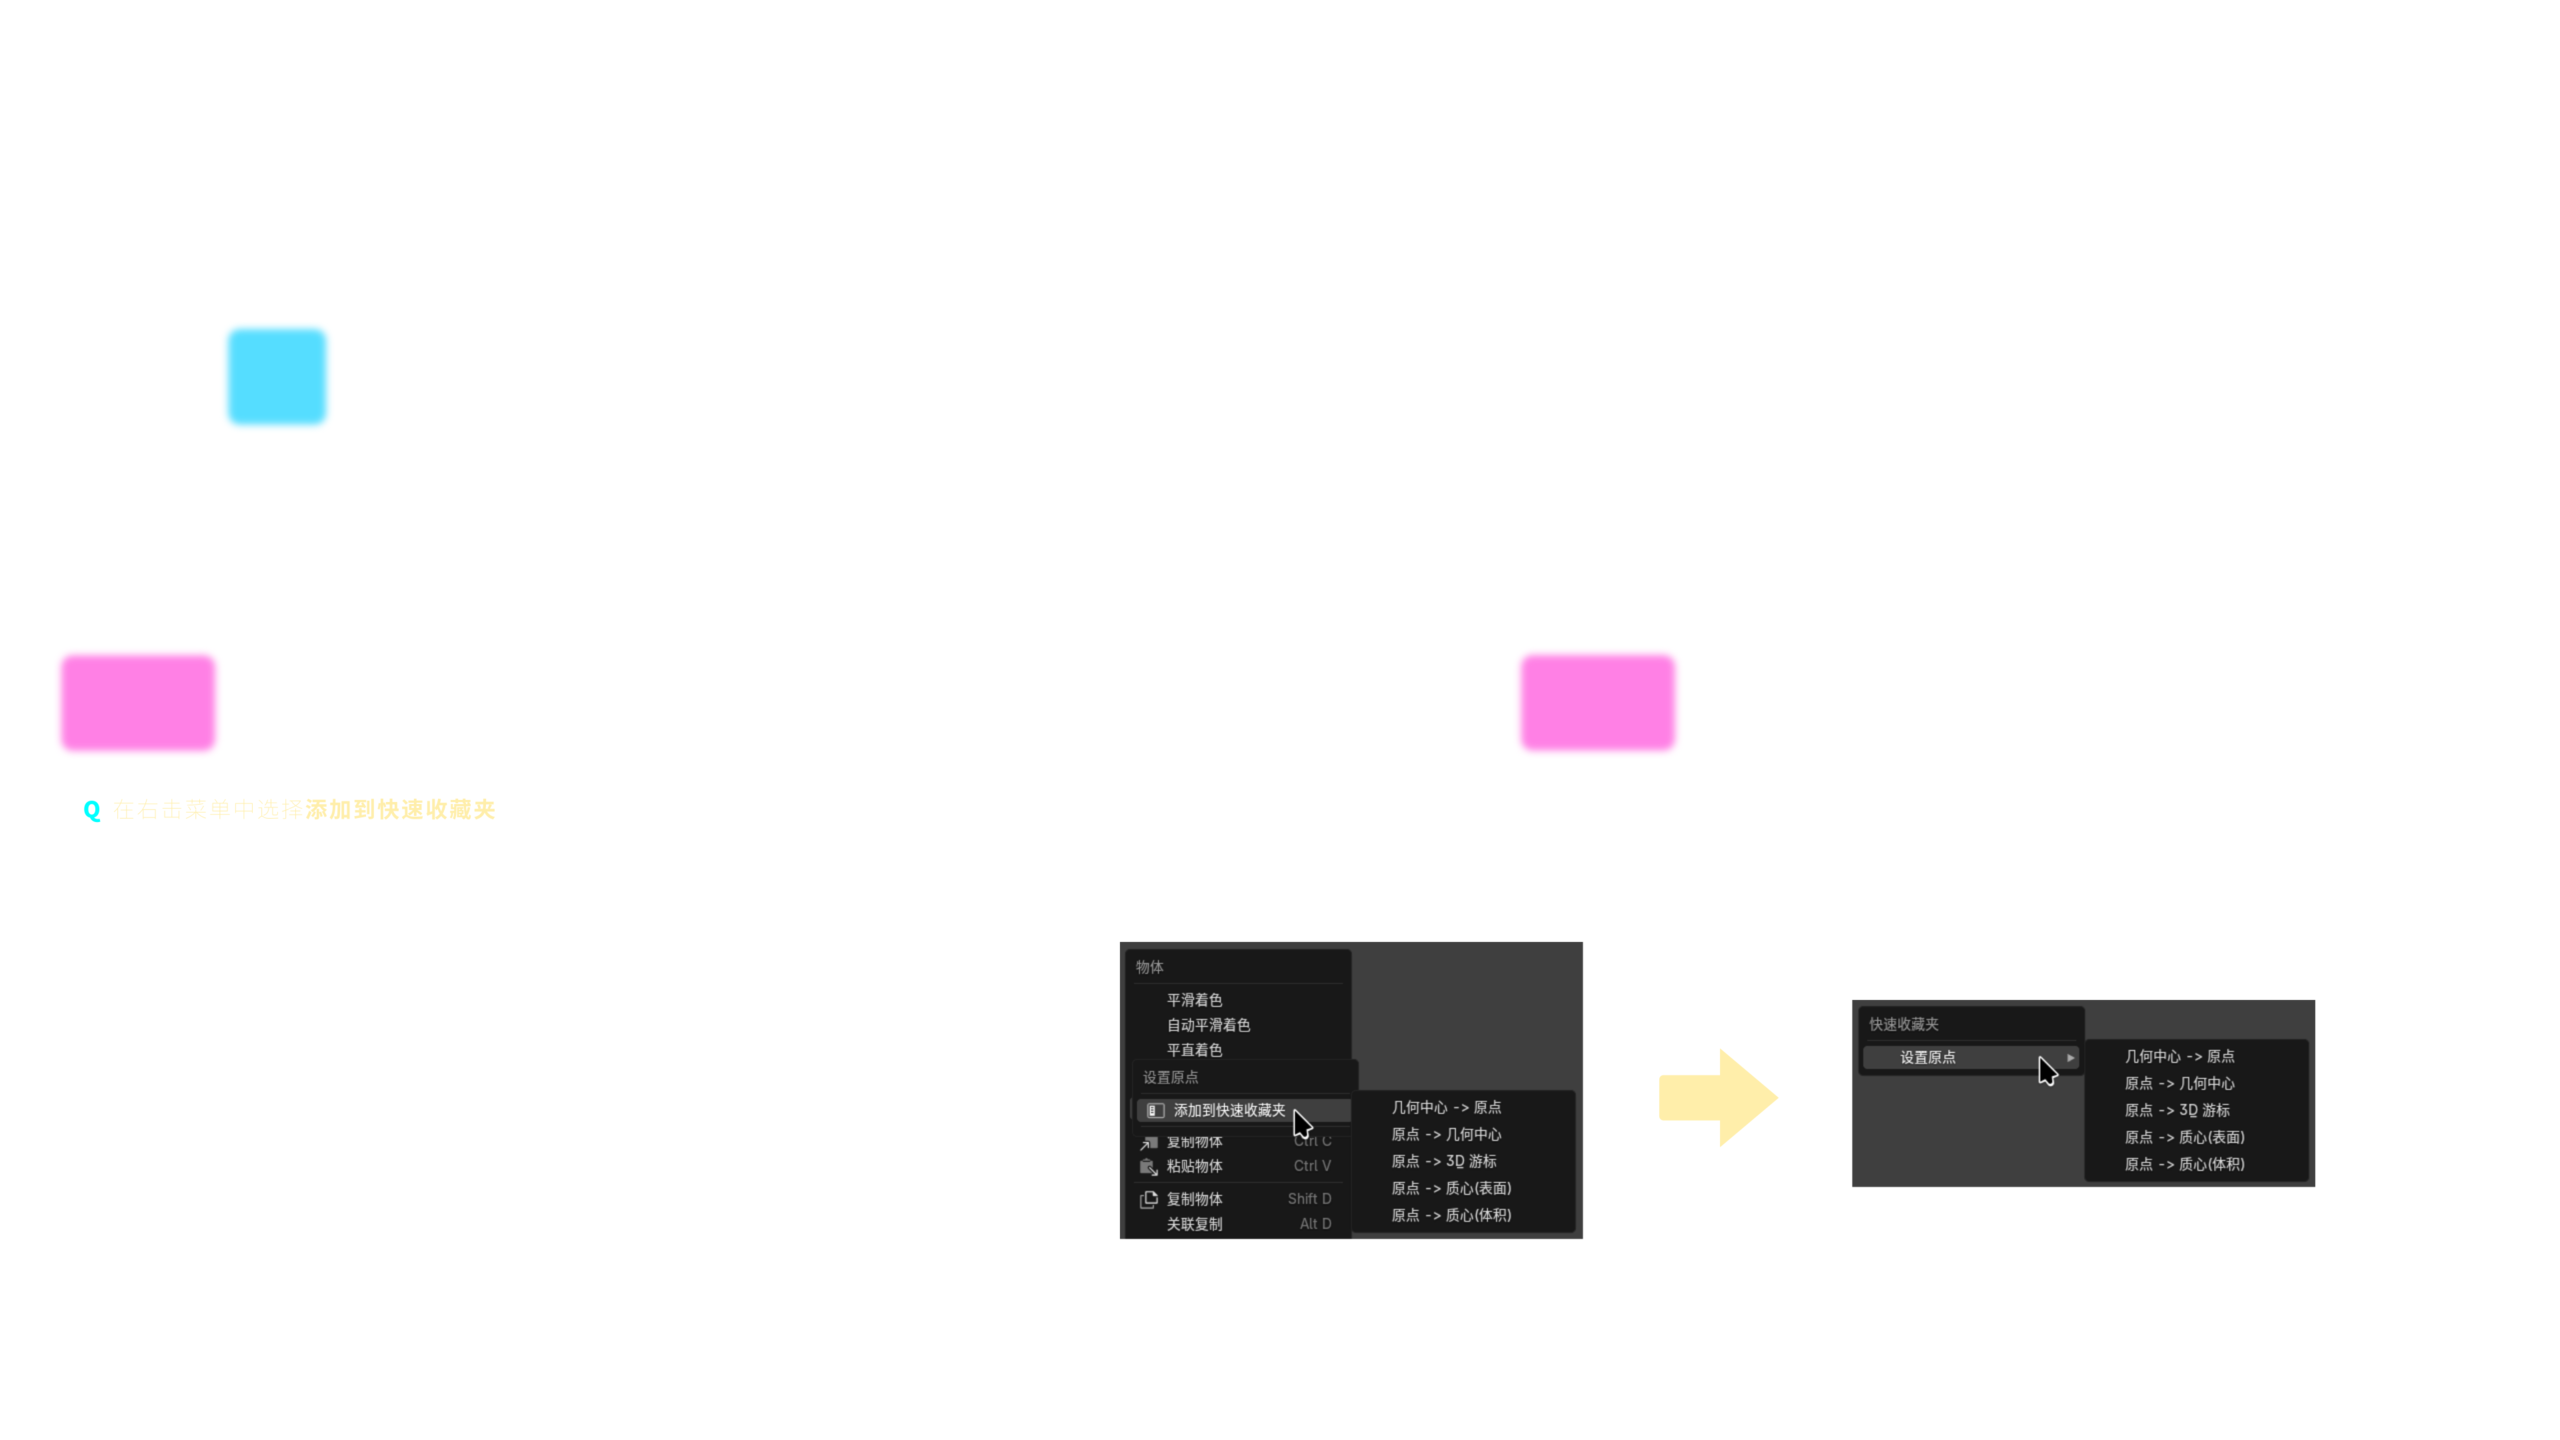
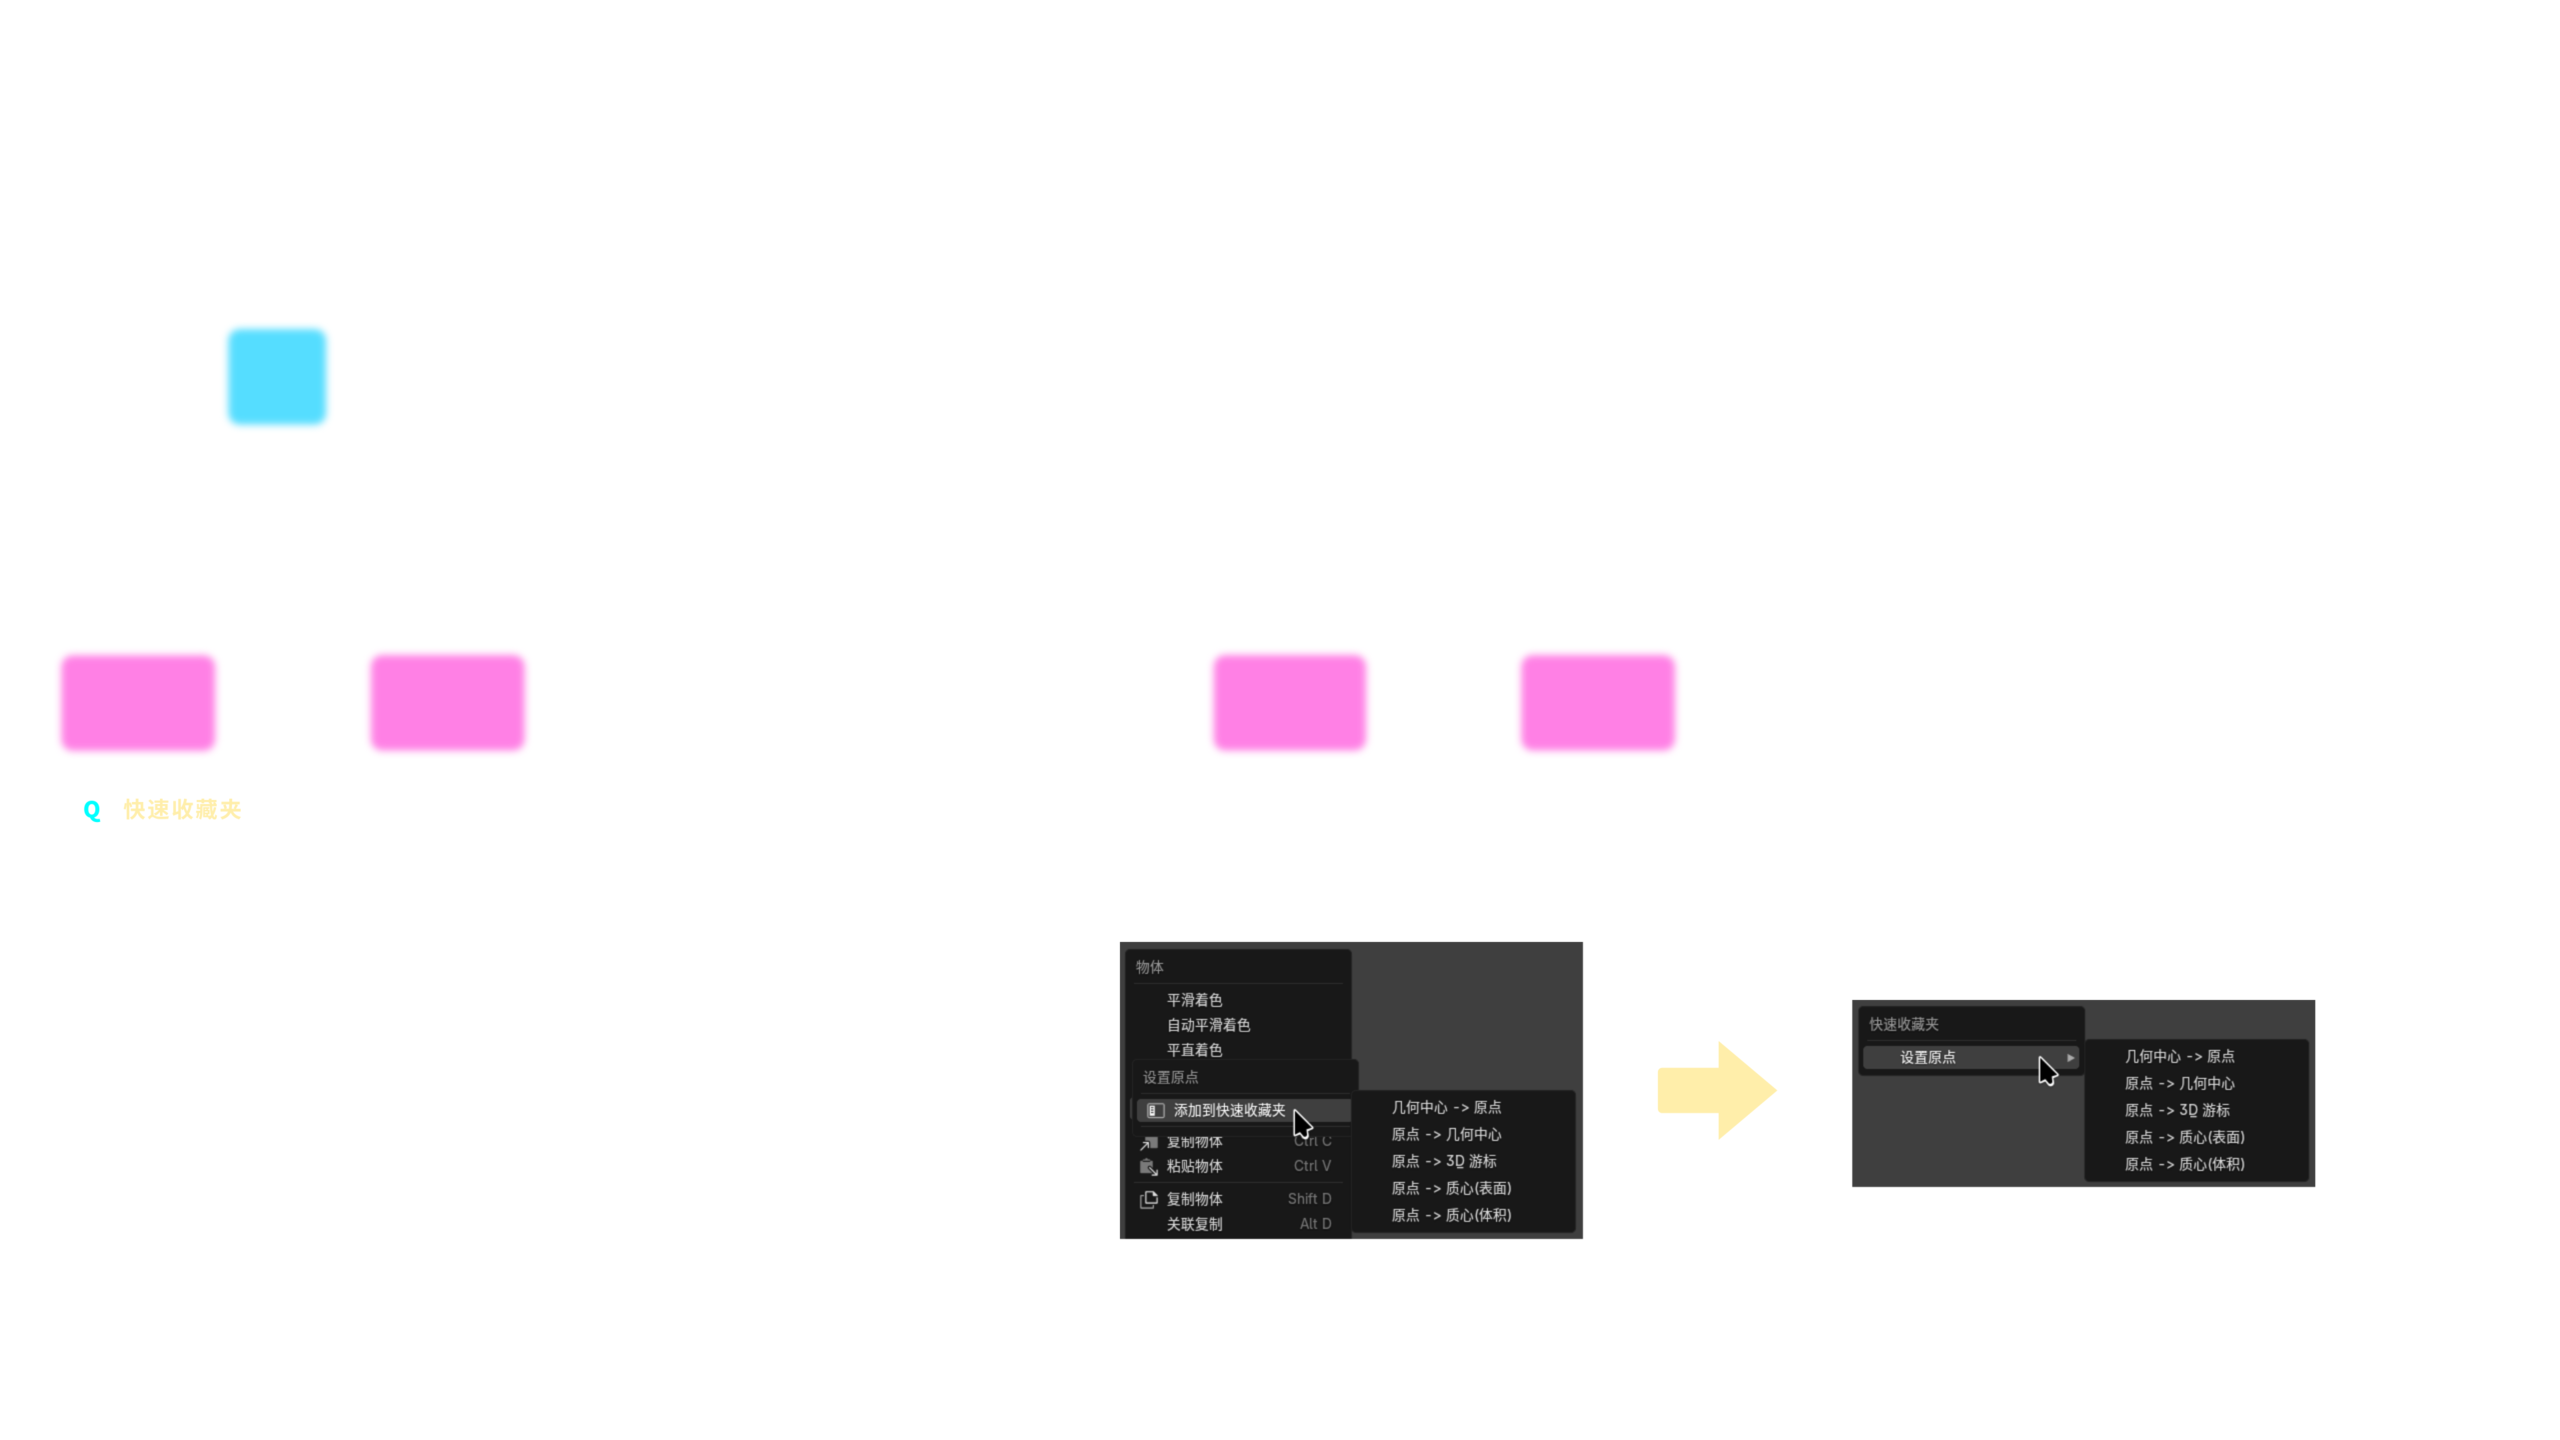
实现模态模式上下左右键功能

diff --git a/no_shortcut.py b/no_shortcut.py
@@ -187,6 +187,8 @@ class NS_OT_no_shortcut(bpy.types.Operator):
             draw_keys('Q.png')
             if event.ctrl :
                 draw_keys('Q_CTRL.png')
+            if event.ctrl and event.alt:
+                draw_keys('Q_CTRL_ALT.png')
             return {'RUNNING_MODAL'}
         
         if event.type == 'W':
@@ -392,6 +394,47 @@ class NS_OT_no_shortcut(bpy.types.Operator):
             if event.alt:
                 draw_keys('SLASH_ALT.png')
             return {'RUNNING_MODAL'}
+        
+        if event.type == 'SPACE':
+            draw_keys('SPACE.png')
+            if event.ctrl:
+                draw_keys('SPACE_CTRL.png')
+            if event.shift:
+                draw_keys('SPACE_SHIFT.png')
+            if event.ctrl and event.shift:
+                draw_keys('SPACE_CTRL_SHIFT.png')
+            if event.ctrl and event.alt:
+                draw_keys('SPACE_CTRL_ALT.png')
+            return {'RUNNING_MODAL'}
+        
+        if event.type == 'HOME':
+            draw_keys('HOME.png')
+            return {'RUNNING_MODAL'}
+        
+        if event.type == 'DEL':
+            draw_keys('DELETE.png')
+            return {'RUNNING_MODAL'}
+        
+        if event.type == 'UP_ARROW':
+            draw_keys('UP.png')
+            return {'RUNNING_MODAL'}
+        
+        if event.type == 'DOWN_ARROW':
+            draw_keys('DOWN.png')
+            return {'RUNNING_MODAL'}
+        
+        if event.type == 'LEFT_ARROW':
+            draw_keys('LEFT.png')
+            if event.shift:
+                draw_keys('LEFT_SHIFT.png')
+            return {'RUNNING_MODAL'}
+        
+        if event.type == 'RIGHT_ARROW':
+            draw_keys('RIGHT.png')
+            if event.shift:
+                draw_keys('RIGHT_SHIFT.png')
+            return {'RUNNING_MODAL'}
+        
         
 
         
